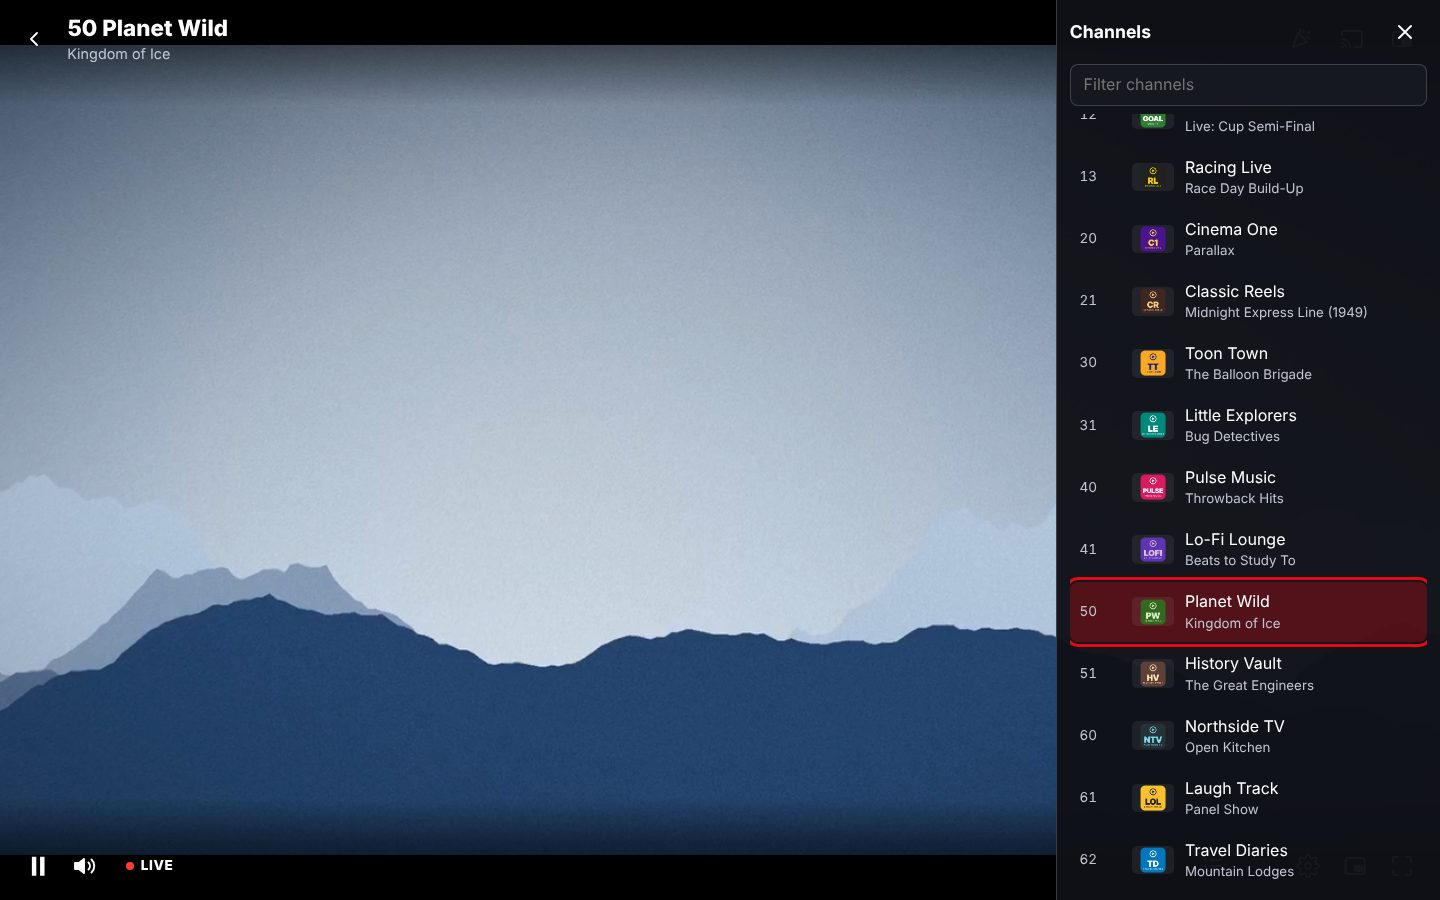
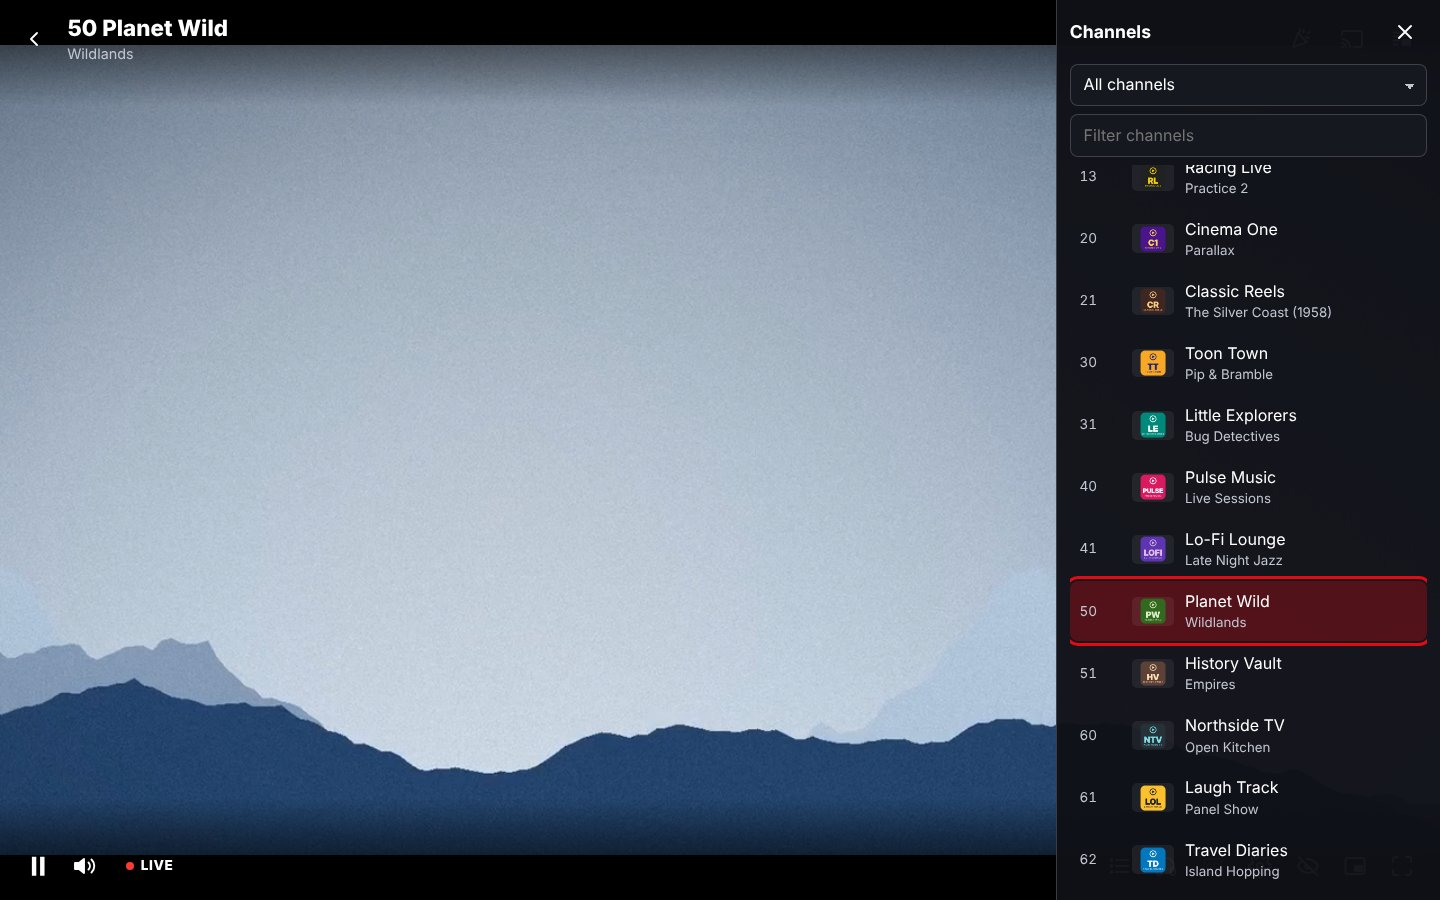
Retake all screenshots with the Superstation name and the current look

diff --git a/docs/index.html b/docs/index.html
@@ -123,7 +123,7 @@
       <div class="pair">
         <figure><img src="screenshots/guide.jpg" width="1440" height="900" loading="lazy" alt="The TV guide: channels down the side and programmes across a timeline"><figcaption>The TV guide</figcaption></figure>
         <figure><img src="screenshots/title.jpg" width="1440" height="900" loading="lazy" alt="A film's page with its poster, plot, cast and a Play button"><figcaption>A title's page</figcaption></figure>
-        <figure><img src="screenshots/phones.jpg" width="1700" height="900" loading="lazy" alt="The app on phones: home, live TV and the player"><figcaption>On a phone</figcaption></figure>
+        <figure><img src="screenshots/phones.jpg" width="1700" height="900" loading="lazy" alt="The app on phones: home, a series page, the TV remote and the TV guide"><figcaption>On a phone</figcaption></figure>
         <figure><img src="screenshots/tv.jpg" width="2004" height="596" loading="lazy" alt="The app on a television, with big remote-friendly rows"><figcaption>On a TV</figcaption></figure>
       </div>
     </section>
